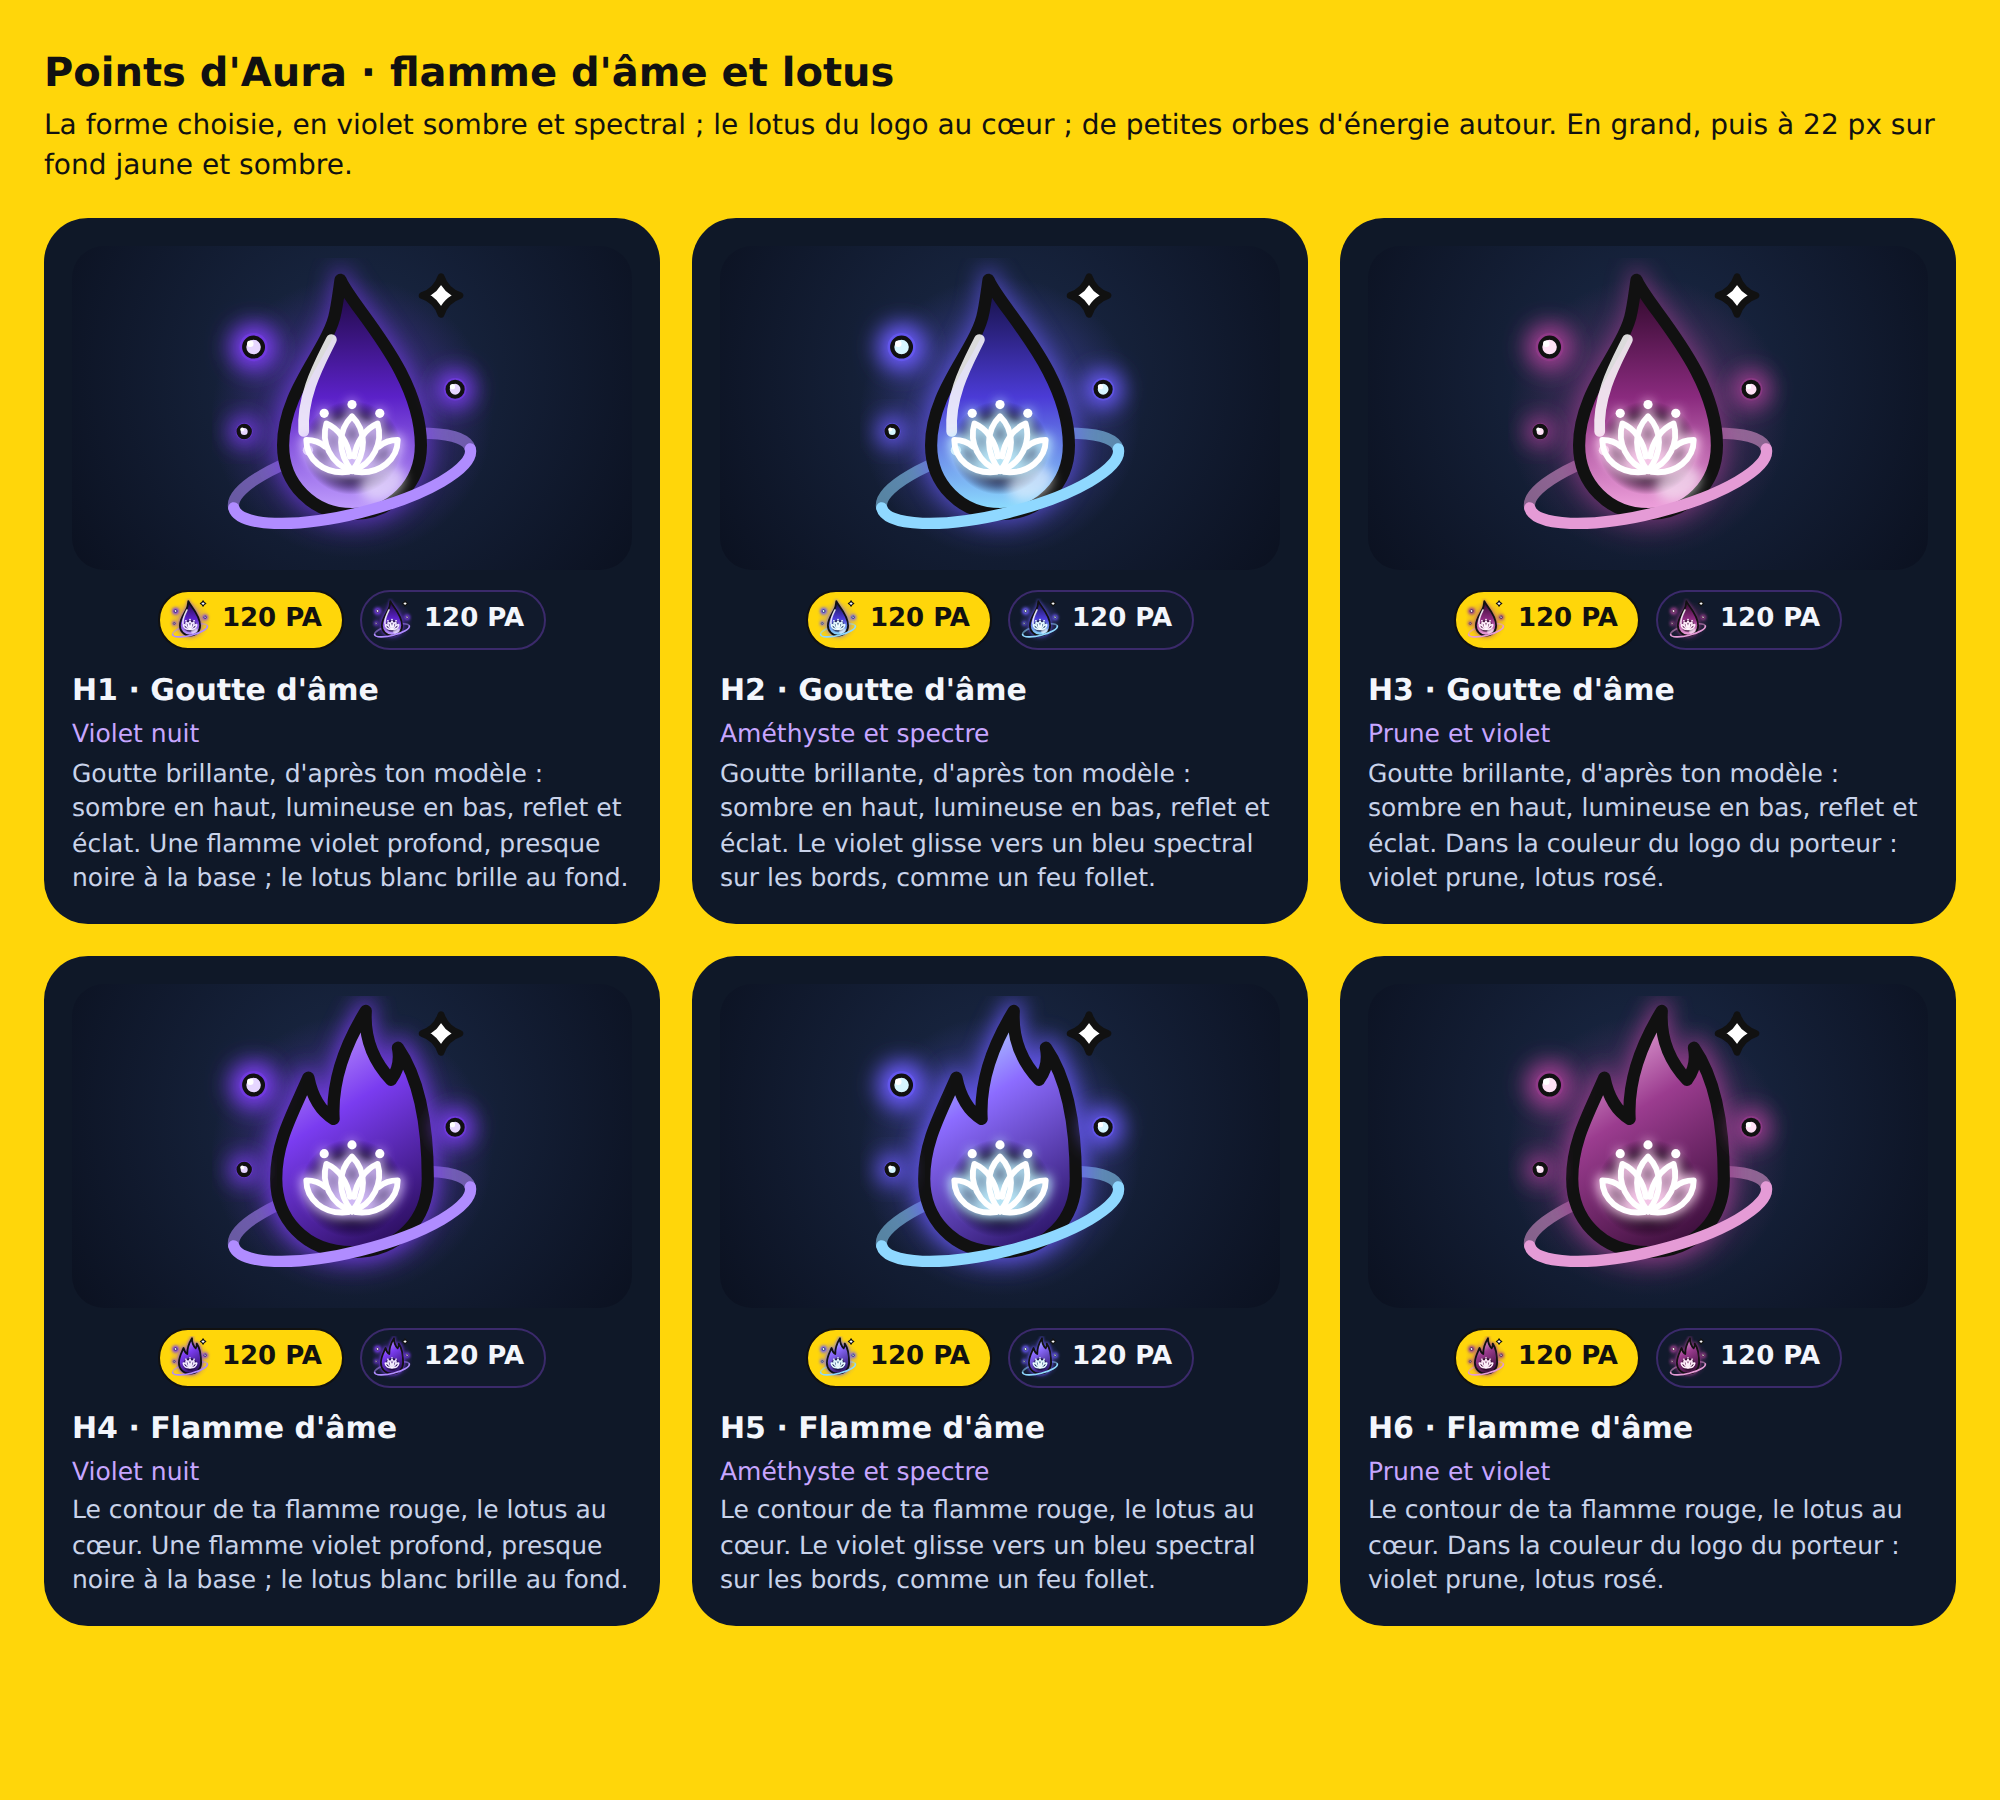
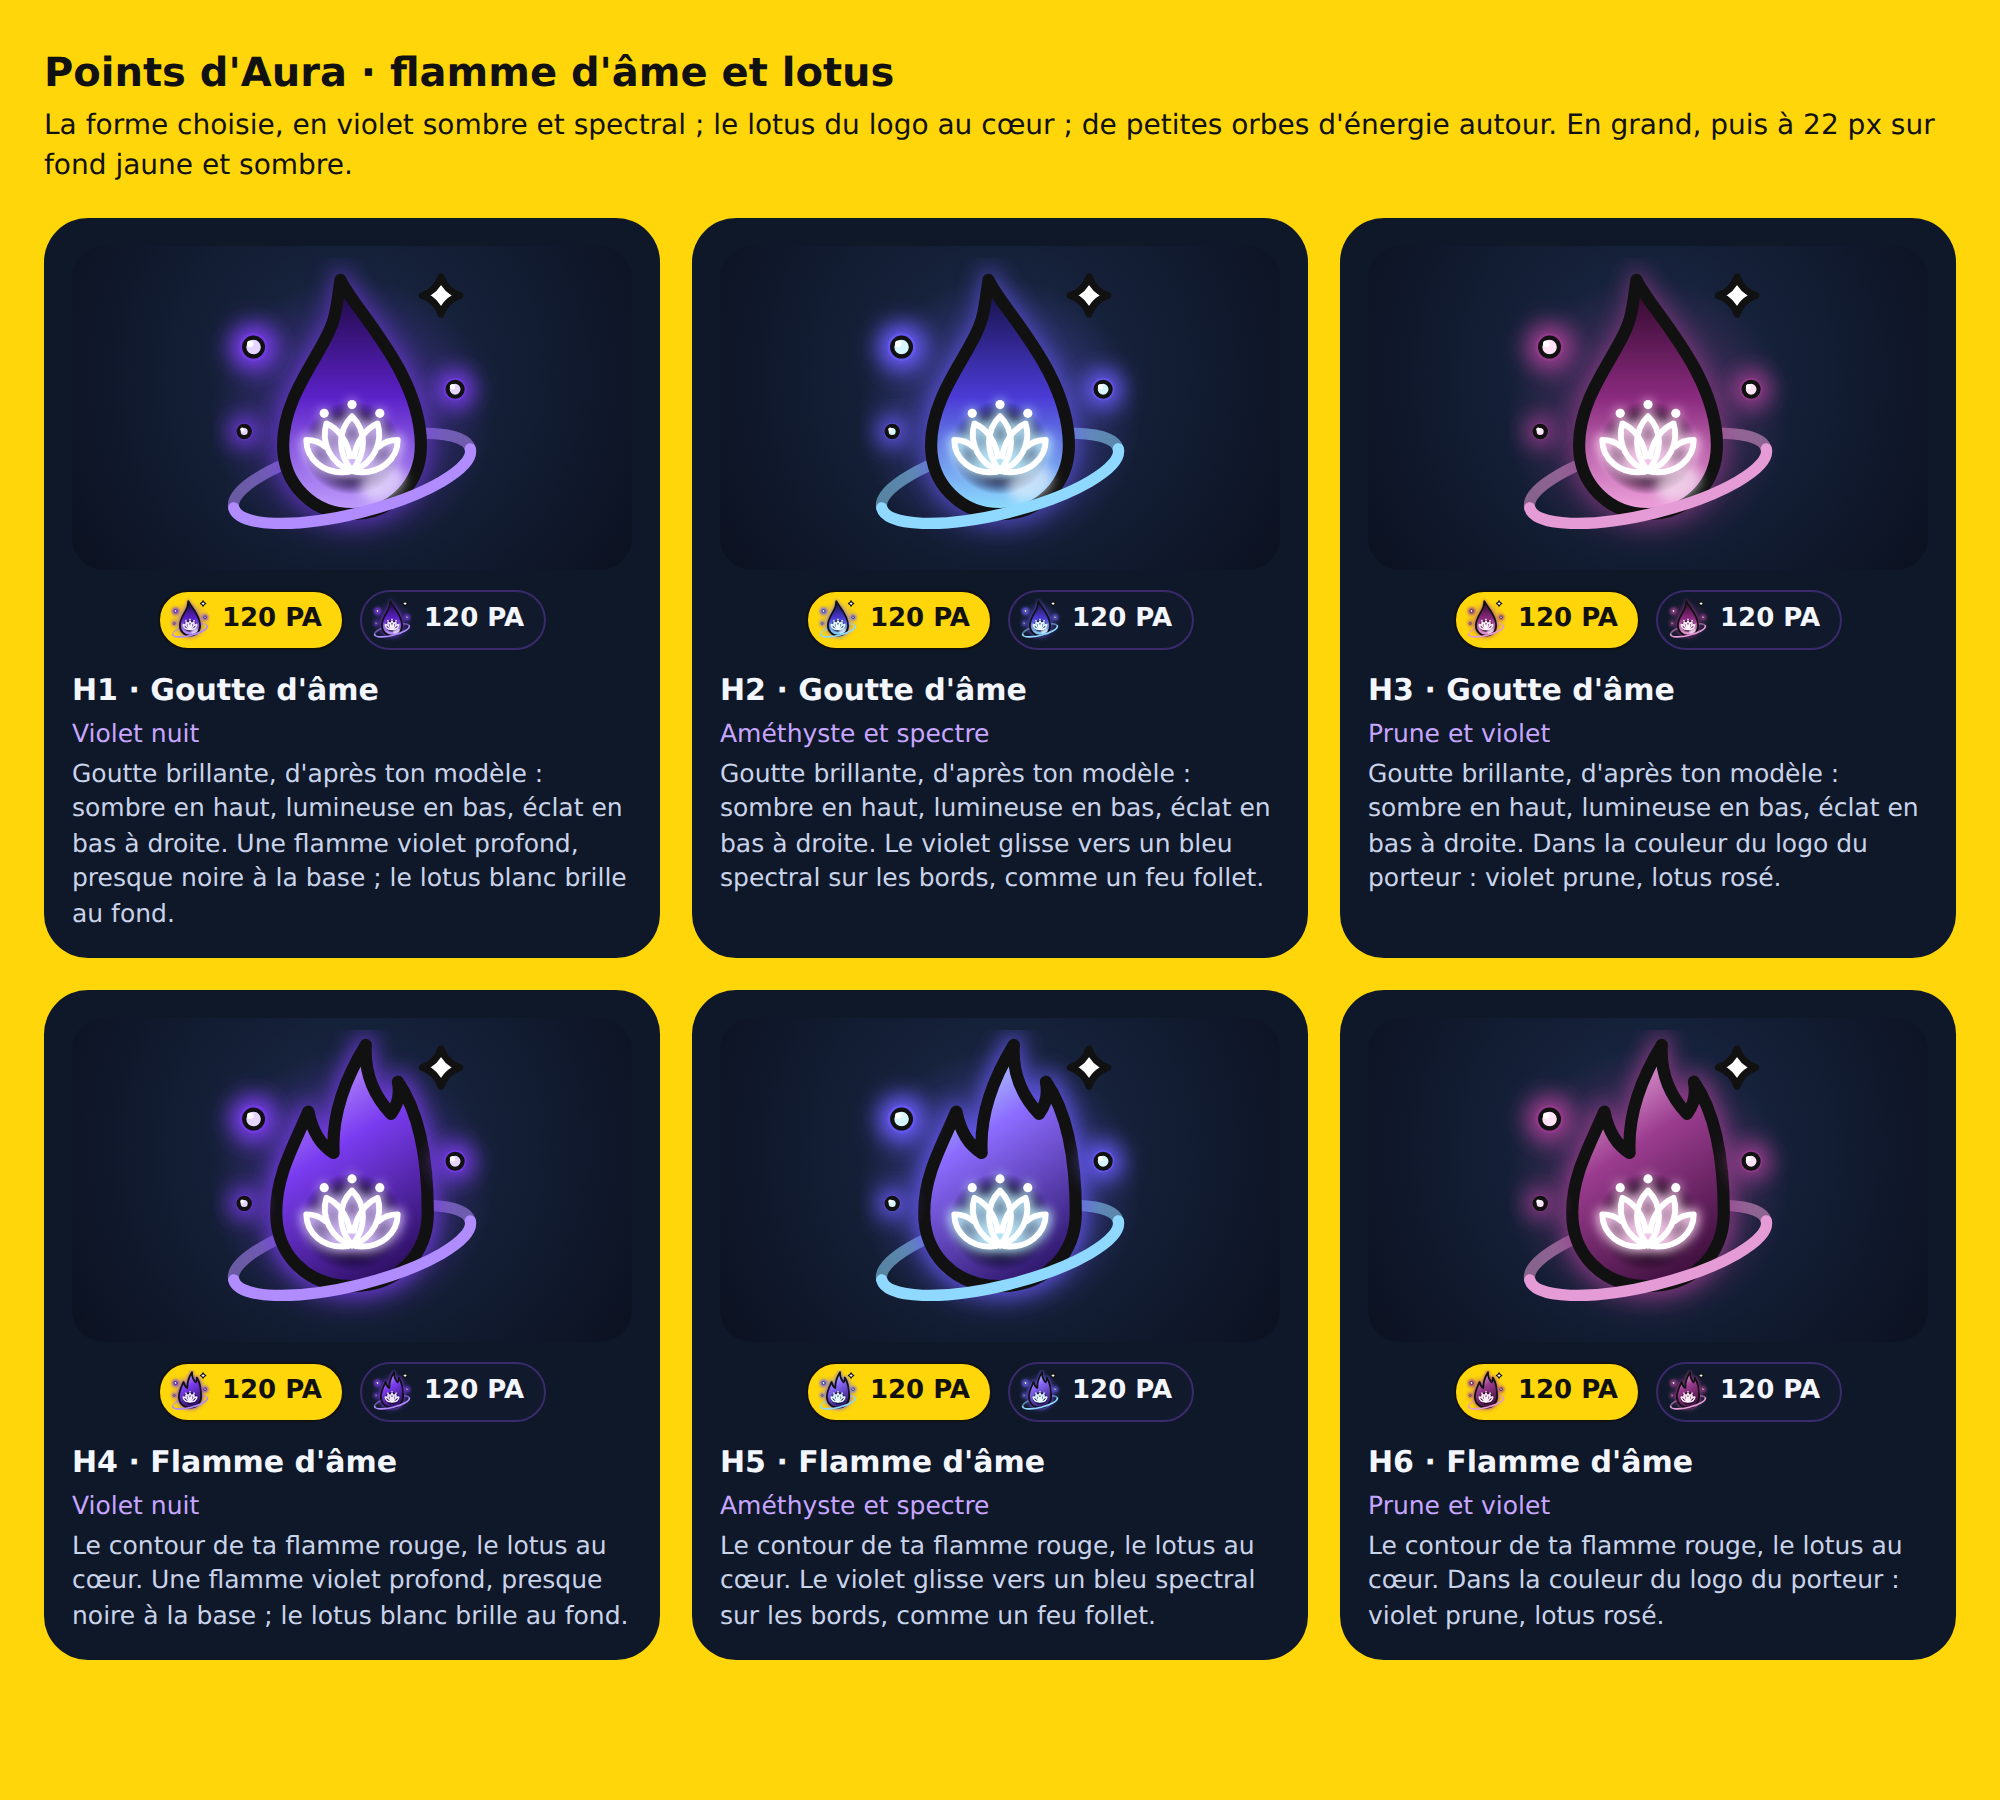
PA : gouttes H1-H3 sans le reflet blanc à gauche
Claude-Session: https://claude.ai/code/session_01SSwv2Y1qPbttjAaeQe6b6x

diff --git a/tools/brand/pa/planche-lotus.html b/tools/brand/pa/planche-lotus.html
@@ -8,11 +8,11 @@ figcaption{display:flex;flex-direction:column;gap:2px}figcaption b{font-size:15p
 <h1>Points d'Aura · flamme d'âme et lotus</h1><p>La forme choisie, en violet sombre et spectral ; le lotus du logo au cœur ; de petites orbes d'énergie autour. En grand, puis à 22 px sur fond jaune et sombre.</p>
 <main><figure><div class="big"><img src="pa-h1.svg" alt=""></div>
 <div class="row"><span class="pill y"><img src="pa-h1.svg" alt="">120 PA</span><span class="pill d"><img src="pa-h1.svg" alt="">120 PA</span></div>
-<figcaption><b>H1 · Goutte d'âme</b><span>Violet nuit</span><em>Goutte brillante, d'après ton modèle : sombre en haut, lumineuse en bas, reflet et éclat. Une flamme violet profond, presque noire à la base ; le lotus blanc brille au fond.</em></figcaption></figure><figure><div class="big"><img src="pa-h2.svg" alt=""></div>
+<figcaption><b>H1 · Goutte d'âme</b><span>Violet nuit</span><em>Goutte brillante, d'après ton modèle : sombre en haut, lumineuse en bas, éclat en bas à droite. Une flamme violet profond, presque noire à la base ; le lotus blanc brille au fond.</em></figcaption></figure><figure><div class="big"><img src="pa-h2.svg" alt=""></div>
 <div class="row"><span class="pill y"><img src="pa-h2.svg" alt="">120 PA</span><span class="pill d"><img src="pa-h2.svg" alt="">120 PA</span></div>
-<figcaption><b>H2 · Goutte d'âme</b><span>Améthyste et spectre</span><em>Goutte brillante, d'après ton modèle : sombre en haut, lumineuse en bas, reflet et éclat. Le violet glisse vers un bleu spectral sur les bords, comme un feu follet.</em></figcaption></figure><figure><div class="big"><img src="pa-h3.svg" alt=""></div>
+<figcaption><b>H2 · Goutte d'âme</b><span>Améthyste et spectre</span><em>Goutte brillante, d'après ton modèle : sombre en haut, lumineuse en bas, éclat en bas à droite. Le violet glisse vers un bleu spectral sur les bords, comme un feu follet.</em></figcaption></figure><figure><div class="big"><img src="pa-h3.svg" alt=""></div>
 <div class="row"><span class="pill y"><img src="pa-h3.svg" alt="">120 PA</span><span class="pill d"><img src="pa-h3.svg" alt="">120 PA</span></div>
-<figcaption><b>H3 · Goutte d'âme</b><span>Prune et violet</span><em>Goutte brillante, d'après ton modèle : sombre en haut, lumineuse en bas, reflet et éclat. Dans la couleur du logo du porteur : violet prune, lotus rosé.</em></figcaption></figure><figure><div class="big"><img src="pa-h4.svg" alt=""></div>
+<figcaption><b>H3 · Goutte d'âme</b><span>Prune et violet</span><em>Goutte brillante, d'après ton modèle : sombre en haut, lumineuse en bas, éclat en bas à droite. Dans la couleur du logo du porteur : violet prune, lotus rosé.</em></figcaption></figure><figure><div class="big"><img src="pa-h4.svg" alt=""></div>
 <div class="row"><span class="pill y"><img src="pa-h4.svg" alt="">120 PA</span><span class="pill d"><img src="pa-h4.svg" alt="">120 PA</span></div>
 <figcaption><b>H4 · Flamme d'âme</b><span>Violet nuit</span><em>Le contour de ta flamme rouge, le lotus au cœur. Une flamme violet profond, presque noire à la base ; le lotus blanc brille au fond.</em></figcaption></figure><figure><div class="big"><img src="pa-h5.svg" alt=""></div>
 <div class="row"><span class="pill y"><img src="pa-h5.svg" alt="">120 PA</span><span class="pill d"><img src="pa-h5.svg" alt="">120 PA</span></div>

diff --git a/tools/brand/make_pa_lotus.py b/tools/brand/make_pa_lotus.py
@@ -85,11 +85,10 @@ def lotus_icon(title, stops, ring, glow, core_dark, lotus_color, orb_core, shape
     # Aura fantôme floue, puis la flamme d'âme.
     body += soul(32, 37, 1.02, glow, glow, 3, shape).replace('/>', ' filter="url(#gl)" opacity="' + ("0.6" if shape == "goutte" else "0.85") + '"/>')
     if shape == "goutte":
-        # Goutte brillante : dégradé vertical sombre → lumineux, cœur sombre pour le lotus, reflet et éclat.
+        # Goutte brillante : dégradé vertical sombre → lumineux, cœur sombre pour le lotus, éclat en bas à droite.
         body += soul(32, 37, 0.98, "url(#dg)", shape=shape)
         body += '<ellipse cx="32" cy="40.5" rx="10.5" ry="10" fill="url(#co)"/>'
-        body += '<path d="M21.7 37C21.2 29.2 25.2 22.3 27.6 17.4" fill="none" stroke="#FFFFFF" stroke-width="2.3" stroke-linecap="round" opacity="0.85"/>'
-        body += '<circle cx="22.6" cy="41" r="1.1" fill="#FFFFFF" opacity="0.85"/>'
+        # Reflet blanc à gauche retiré (2026-10-28, porteur) ; l'éclat en bas à droite reste.
         body += '<ellipse cx="38.5" cy="48" rx="5" ry="3.6" fill="#FFFFFF" filter="url(#lg)" opacity="0.55" transform="rotate(-25 38.5 48)"/>'
         lx, ly = 32, 40
     else:
@@ -121,7 +120,7 @@ TINTS = [
 V = {}
 for i, (shape, label) in enumerate((("goutte", "Goutte d'âme"), ("flamme", "Flamme d'âme"))):
     for j, (color, idea, stops, ring, glow, dark, lot, orbc, drop) in enumerate(TINTS):
-        V["h%d" % (i * 3 + j + 1)] = (label, color, ("Goutte brillante, d'après ton modèle : sombre en haut, lumineuse en bas, reflet et éclat. " if shape == "goutte" else "Le contour de ta flamme rouge, le lotus au cœur. ") + idea,
+        V["h%d" % (i * 3 + j + 1)] = (label, color, ("Goutte brillante, d'après ton modèle : sombre en haut, lumineuse en bas, éclat en bas à droite. " if shape == "goutte" else "Le contour de ta flamme rouge, le lotus au cœur. ") + idea,
                                       lotus_icon("PA · " + label + " · " + color, stops, ring, glow, dark, lot, orbc, shape, drop))
 
 

diff --git a/docs/03-journal-decisions.md b/docs/03-journal-decisions.md
@@ -9,7 +9,7 @@
 ## 2026-10-28 (suite) — Méga-évolutions à 2 500 PA validées, 500 scans au Grand maître mondial, pastille PA décalée, propositions d'illustration des PA
 
 - **Décisions du porteur :** 2 500 PA par méga-évolution **validé** ; item « Deluxe » à définir plus tard ; Grand maître mondial Pokémon : **500 scans par jour** au lieu de 100.
-- **Fait :** pastille des PA descendue de 7 px dans l'en-tête (elle chevauchait celle des PK) ; 6 propositions d'illustration des PA (`tools/brand/make_pa_proposals.py`, `tools/brand/pa/planche.html`) autour d'une flamme ou d'une âme au plus profond de l'être (chakra, nen) : A Âme ardente (violet), B Chakra (or), C Nen (vert émeraude), D Cœur d'éveil (bleu glacier), E Flamme d'évolution (rouge et or, spirale), F Esprit (rose magenta) ; **choix du porteur attendu** avant de remplacer `web/img/brand/pa.svg`. Le porteur retient E (spirale) et F (halo) et demande un style « flamme d'âme » : 2ᵉ série de 6 variantes G1 à G6 (`tools/brand/make_pa_soul.py`, `tools/brand/pa/planche-soul.html`) : flamme d'âme lumineuse, spirale au cœur, halo autour, flammèches ; rouge et or, rose, violet, bleu spectral, sphère en orbite, or vers rose. Puis, forme gardée, 3ᵉ série (`tools/brand/make_pa_lotus.py`, `tools/brand/pa/planche-lotus.html`) : violet sombre et spectral, **lotus du logo du porteur** au cœur à la place de la spirale, petites orbes d'énergie à la place des flammèches, halo autour de la base ; H1 violet nuit, H2 améthyste et spectre, H3 prune ; puis barre du lotus retirée et contour redessiné en courbes régulières, en deux formes, redessinées à la demande du porteur : une vraie goutte symétrique à pointe fine (H1 à H3) et une vraie flamme aux langues qui ondulent, cœur plus clair (H4 à H6) ; puis redessinées d'après deux modèles envoyés par le porteur : goutte d'eau brillante (sombre en haut, lumineuse en bas, reflet et éclat) et pictogramme de feu (seulement son contour, le lotus au cœur, à la demande du porteur) ; choix attendu.
+- **Fait :** pastille des PA descendue de 7 px dans l'en-tête (elle chevauchait celle des PK) ; 6 propositions d'illustration des PA (`tools/brand/make_pa_proposals.py`, `tools/brand/pa/planche.html`) autour d'une flamme ou d'une âme au plus profond de l'être (chakra, nen) : A Âme ardente (violet), B Chakra (or), C Nen (vert émeraude), D Cœur d'éveil (bleu glacier), E Flamme d'évolution (rouge et or, spirale), F Esprit (rose magenta) ; **choix du porteur attendu** avant de remplacer `web/img/brand/pa.svg`. Le porteur retient E (spirale) et F (halo) et demande un style « flamme d'âme » : 2ᵉ série de 6 variantes G1 à G6 (`tools/brand/make_pa_soul.py`, `tools/brand/pa/planche-soul.html`) : flamme d'âme lumineuse, spirale au cœur, halo autour, flammèches ; rouge et or, rose, violet, bleu spectral, sphère en orbite, or vers rose. Puis, forme gardée, 3ᵉ série (`tools/brand/make_pa_lotus.py`, `tools/brand/pa/planche-lotus.html`) : violet sombre et spectral, **lotus du logo du porteur** au cœur à la place de la spirale, petites orbes d'énergie à la place des flammèches, halo autour de la base ; H1 violet nuit, H2 améthyste et spectre, H3 prune ; puis barre du lotus retirée et contour redessiné en courbes régulières, en deux formes, redessinées à la demande du porteur : une vraie goutte symétrique à pointe fine (H1 à H3) et une vraie flamme aux langues qui ondulent, cœur plus clair (H4 à H6) ; puis redessinées d'après deux modèles envoyés par le porteur : goutte d'eau brillante (sombre en haut, lumineuse en bas, reflet et éclat) et pictogramme de feu (seulement son contour, le lotus au cœur, à la demande du porteur) ; reflet blanc à gauche des gouttes retiré ; choix attendu.
 
 ---
 
